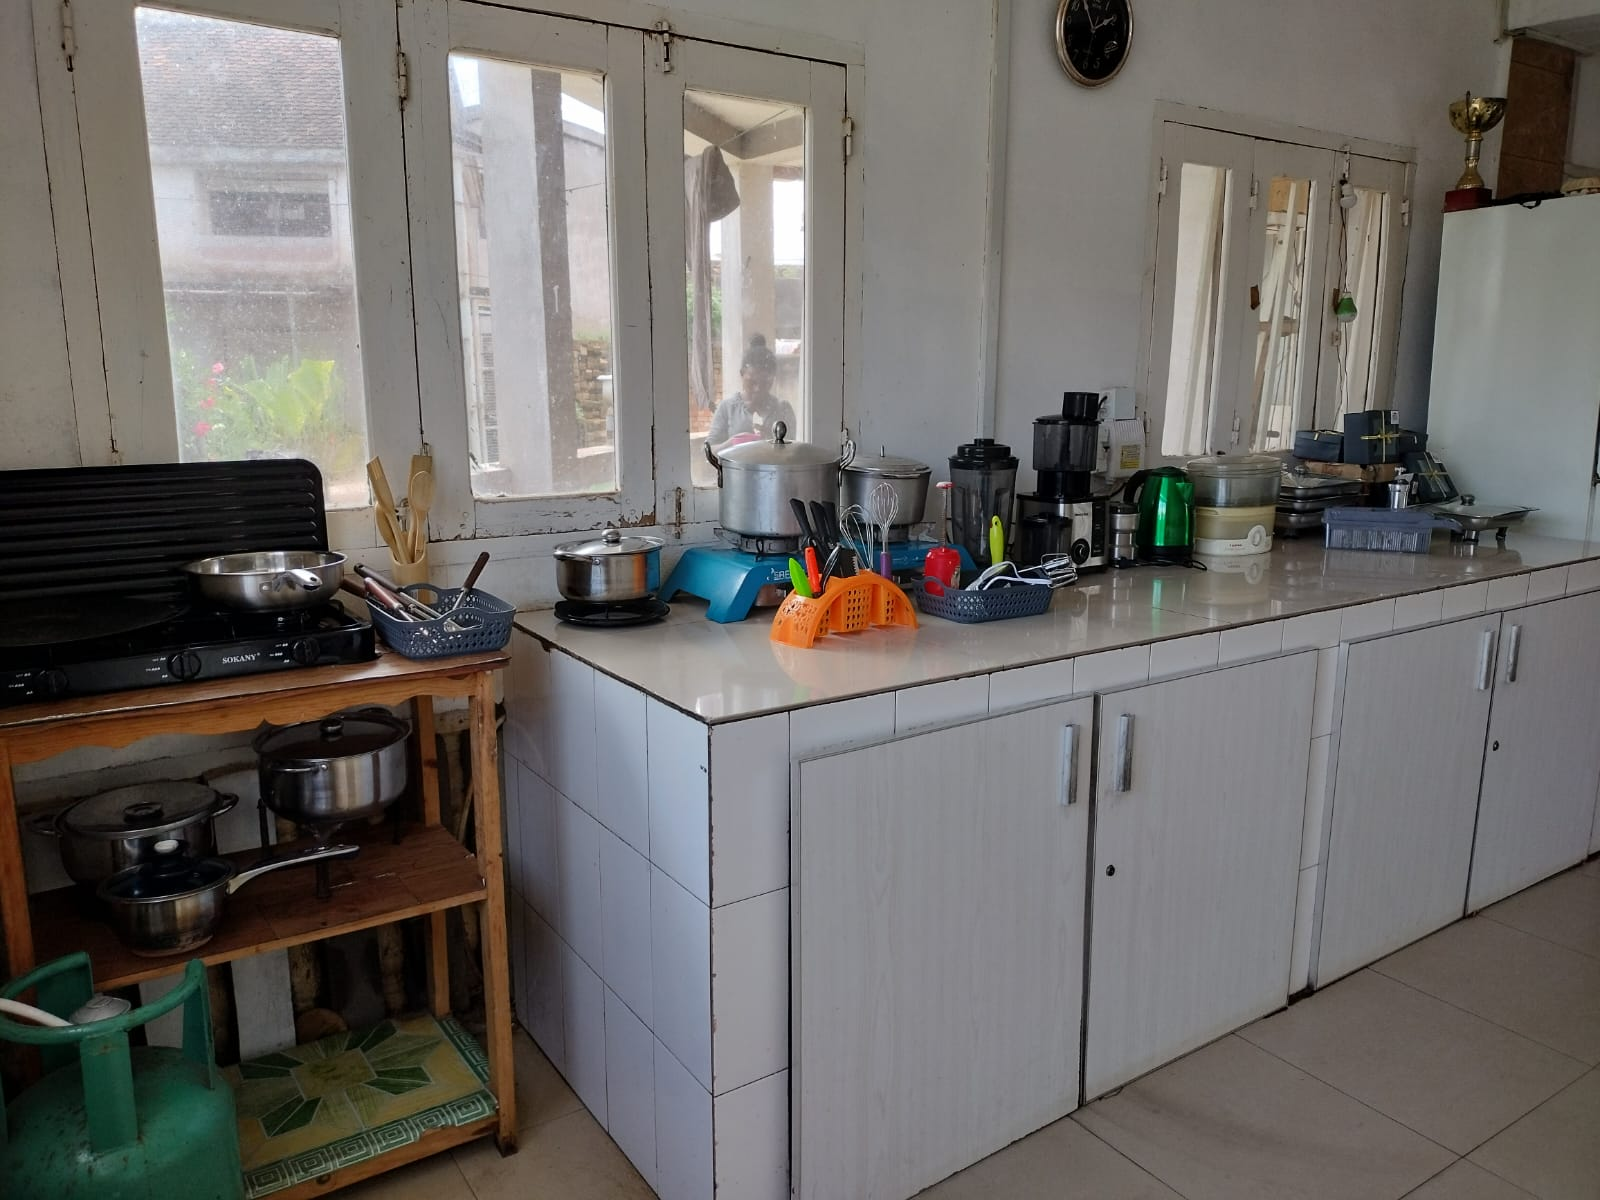
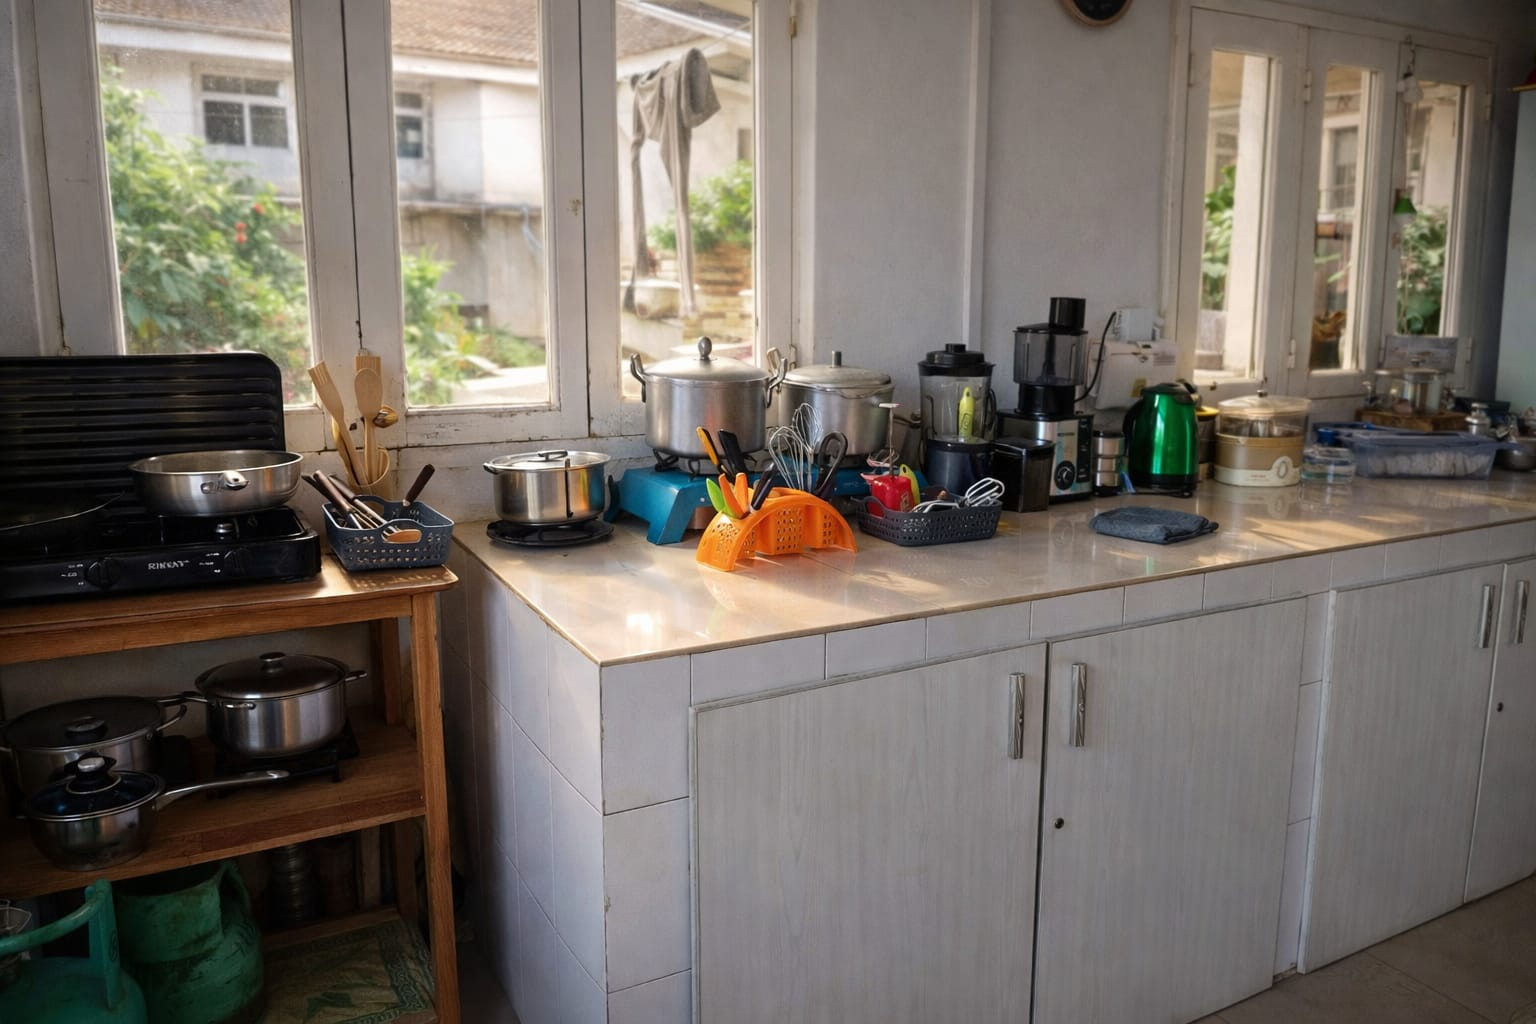
fix: good image

diff --git a/travaillons-ensemble.html b/travaillons-ensemble.html
@@ -52,7 +52,7 @@
         <div class="collage-item"><img src="img/nouvelleImage/tatie/tatie6.jpeg" alt="Tatie Malala"></div>
 
         <div class="collage-item"><img src="img/services/riz-noir.jpg" alt="Riz noir BIO MADA"></div>
-        <div class="collage-item"><img src="img/nouvelleImage/preparation/prepa6.jpeg" alt="Préparation BIO MADA"></div>
+        <div class="collage-item"><img src="img/nouvelleImage/tatie/tatie8.jpeg" alt="Préparation BIO MADA"></div>
 
     </div>
 
@@ -146,7 +146,7 @@
                     <img class="img-fluid" loading="lazy" src="img/nouvelleImage/preparation/prepa2.jpeg"
                         alt="Plat BIO MADA">
                     <img class="img-fluid" loading="lazy" src="img/nouvelleImage/sakafo/4.jpeg" alt="Plat BIO MADA">
-                    <img class="img-fluid" loading="lazy" src="img/nouvelleImage/tatie/tatie1.jpeg" alt="Plat BIO MADA">
+                    <img class="img-fluid" loading="lazy" src="img/nouvelleImage/tatie/tatie4.jpeg" alt="Plat BIO MADA">
                     <img class="img-fluid" loading="lazy" src="img/nouvelleImage/sakafo/99.jpeg" alt="Plat BIO MADA">
 
                     <img class="img-fluid" loading="lazy" src="img/nouvelleImage/sakafo/33.jpeg" alt="Plat BIO MADA">
@@ -154,7 +154,7 @@
                     <img class="img-fluid" loading="lazy"
                         src="img/sakafo/WhatsApp%20Image%202026-01-20%20at%2010.05.61.jpeg" alt="Plat BIO MADA">
 
-                    <img class="img-fluid" loading="lazy" src="img/nouvelleImage/tatie/tatie3.jpeg" alt="Plat BIO MADA">
+                    <img class="img-fluid" loading="lazy" src="img/nouvelleImage/tatie/prepa8.jpeg" alt="Plat BIO MADA">
 
                     <img class="img-fluid" loading="lazy" src="img/nouvelleImage/sakafo/999.jpeg" alt="Plat BIO MADA">
 

diff --git a/css/a-propos.css b/css/a-propos.css
@@ -6,7 +6,7 @@
 .apropos-top-banner {
     height: clamp(160px, 22vw, 320px);
     width: 100%;
-    background-image: url('../img/fond/bannerApropos/fond.jpg');
+    background-image: url('../img/nouvelleImage/preparation/prepa7.jpeg');
     background-size: cover;
     background-position: center;
     background-repeat: no-repeat;
